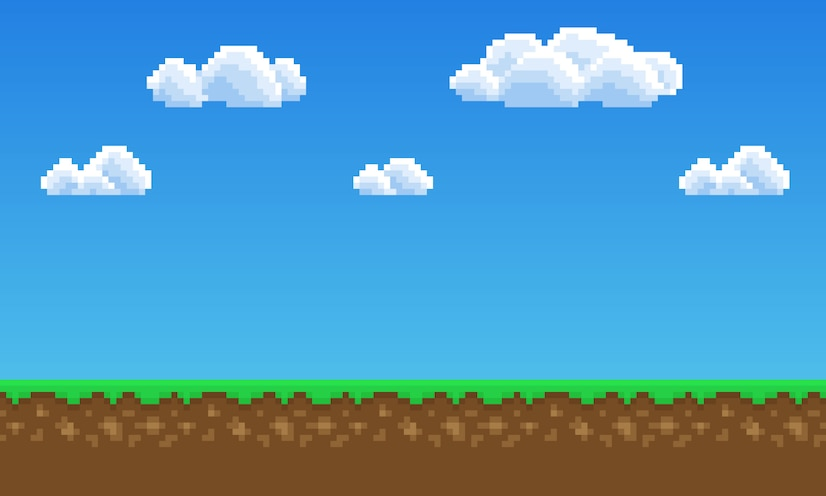
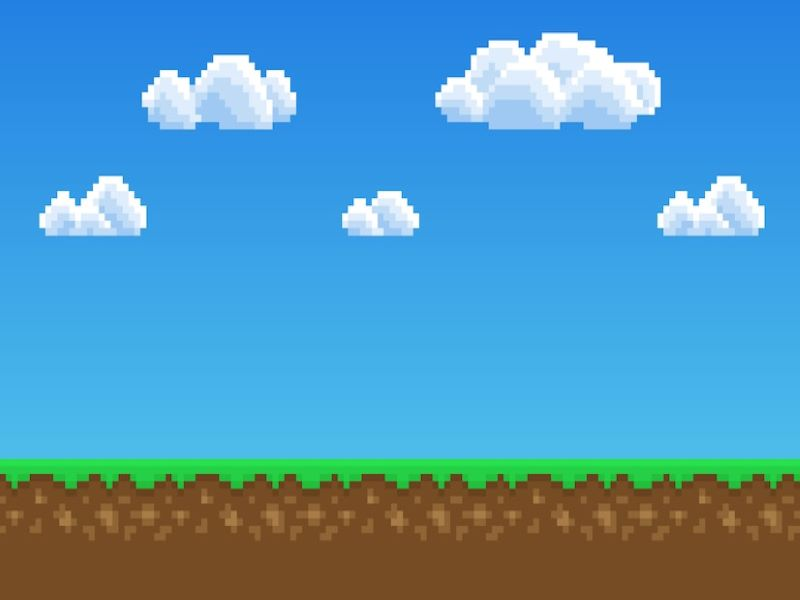
Cambie el tamano al background

Changed region(s): [[0.6562, 0.0605, 0.6875, 0.0907], [0.25, 0.0907, 0.2812, 0.121], [0.2188, 0.121, 0.25, 0.1512]]

diff --git a/src/juego/Juego.java b/src/juego/Juego.java
@@ -32,7 +32,6 @@ public class Juego extends InterfaceJuego {
 		background = Herramientas.cargarImagen("background.jpg");
 		mono = new Mono(50, 410);
 		arbol = new Arbol(300, 340);
-		
 //		arbol = new Arbol(300, 295); // Para la imagen del arbol
 
 		// Inicializar lo que haga falta para el juego

diff --git a/src/juego/Arbol.java b/src/juego/Arbol.java
@@ -1,12 +1,10 @@
 package juego;
 
 import java.awt.Image;
-//import java.awt.Paint;
 
 import entorno.Entorno;
 import entorno.Herramientas;
 import java.awt.Color;
-//import javafx.scene.paint.Color;
 
 public class Arbol {
 	double x, y;
